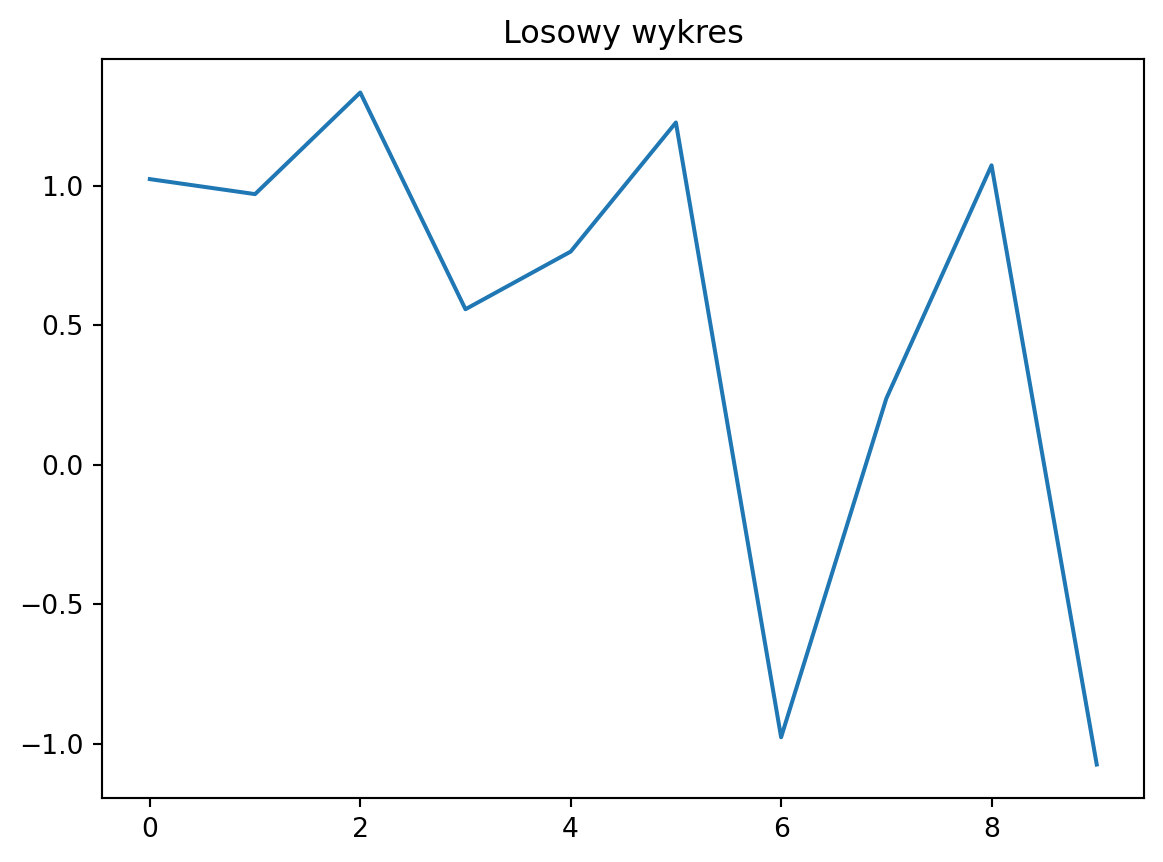
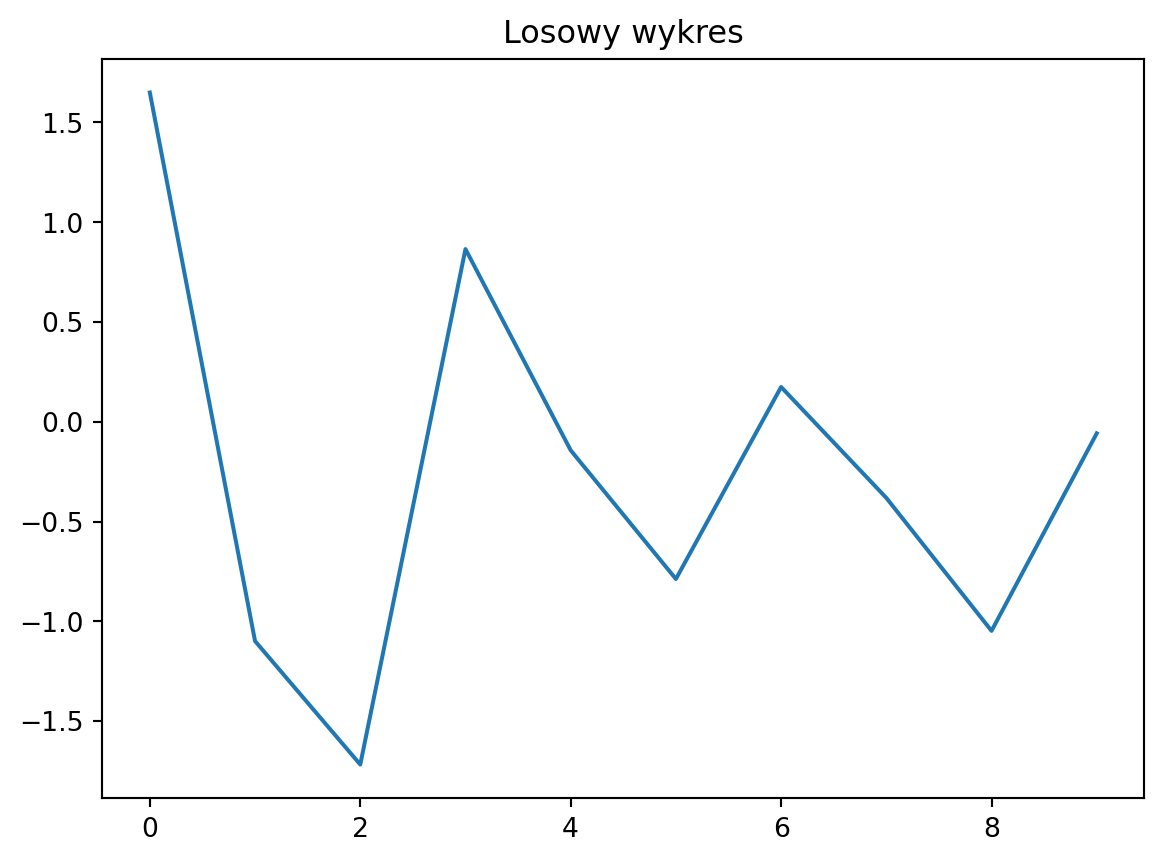
another push

diff --git a/docs/posts/python_w_analizie/python_w_analizie.html b/docs/posts/python_w_analizie/python_w_analizie.html
@@ -182,7 +182,7 @@ ul.task-list li input[type="checkbox"] {
 <section id="wprowadzenie" class="level2">
 <h2 class="anchored" data-anchor-id="wprowadzenie">Wprowadzenie</h2>
 <p>W tym poście pokażę, jak wygenerować dane w Pythonie i automatycznie przedstawić je na wykresie. Na koniec wygeneruję kilka standardowych kodów.</p>
-<div id="740ead55" class="cell" data-execution_count="1">
+<div id="172a0a98" class="cell" data-execution_count="1">
 <div class="cell-output cell-output-display" data-execution_count="1">
 <div>
 
@@ -199,52 +199,52 @@ ul.task-list li input[type="checkbox"] {
 <tr class="odd">
 <th data-quarto-table-cell-role="th">0</th>
 <td>0</td>
-<td>1.023569</td>
+<td>1.650125</td>
 </tr>
 <tr class="even">
 <th data-quarto-table-cell-role="th">1</th>
 <td>1</td>
-<td>0.969806</td>
+<td>-1.098584</td>
 </tr>
 <tr class="odd">
 <th data-quarto-table-cell-role="th">2</th>
 <td>2</td>
-<td>1.334030</td>
+<td>-1.717246</td>
 </tr>
 <tr class="even">
 <th data-quarto-table-cell-role="th">3</th>
 <td>3</td>
-<td>0.557078</td>
+<td>0.865658</td>
 </tr>
 <tr class="odd">
 <th data-quarto-table-cell-role="th">4</th>
 <td>4</td>
-<td>0.763745</td>
+<td>-0.142566</td>
 </tr>
 <tr class="even">
 <th data-quarto-table-cell-role="th">5</th>
 <td>5</td>
-<td>1.226594</td>
+<td>-0.787545</td>
 </tr>
 <tr class="odd">
 <th data-quarto-table-cell-role="th">6</th>
 <td>6</td>
-<td>-0.977648</td>
+<td>0.174582</td>
 </tr>
 <tr class="even">
 <th data-quarto-table-cell-role="th">7</th>
 <td>7</td>
-<td>0.237027</td>
+<td>-0.381204</td>
 </tr>
 <tr class="odd">
 <th data-quarto-table-cell-role="th">8</th>
 <td>8</td>
-<td>1.073087</td>
+<td>-1.047409</td>
 </tr>
 <tr class="even">
 <th data-quarto-table-cell-role="th">9</th>
 <td>9</td>
-<td>-1.075348</td>
+<td>-0.057666</td>
 </tr>
 </tbody>
 </table>
@@ -252,7 +252,7 @@ ul.task-list li input[type="checkbox"] {
 </div>
 </div>
 </div>
-<div id="5964f480" class="cell" data-execution_count="2">
+<div id="3c602512" class="cell" data-execution_count="2">
 <div class="cell-output cell-output-display">
 <div>
 <figure class="figure">
@@ -261,7 +261,7 @@ ul.task-list li input[type="checkbox"] {
 </div>
 </div>
 </div>
-<div id="d210afdb" class="cell" data-execution_count="3">
+<div id="ac777670" class="cell" data-execution_count="3">
 <div class="cell-output cell-output-display" data-execution_count="3">
 <div>
 
@@ -283,37 +283,37 @@ ul.task-list li input[type="checkbox"] {
 <tr class="even">
 <th data-quarto-table-cell-role="th">mean</th>
 <td>4.50000</td>
-<td>0.513194</td>
+<td>-0.254186</td>
 </tr>
 <tr class="odd">
 <th data-quarto-table-cell-role="th">std</th>
 <td>3.02765</td>
-<td>0.872558</td>
+<td>0.994358</td>
 </tr>
 <tr class="even">
 <th data-quarto-table-cell-role="th">min</th>
 <td>0.00000</td>
-<td>-1.075348</td>
+<td>-1.717246</td>
 </tr>
 <tr class="odd">
 <th data-quarto-table-cell-role="th">25%</th>
 <td>2.25000</td>
-<td>0.317040</td>
+<td>-0.982443</td>
 </tr>
 <tr class="even">
 <th data-quarto-table-cell-role="th">50%</th>
 <td>4.50000</td>
-<td>0.866776</td>
+<td>-0.261885</td>
 </tr>
 <tr class="odd">
 <th data-quarto-table-cell-role="th">75%</th>
 <td>6.75000</td>
-<td>1.060707</td>
+<td>0.116520</td>
 </tr>
 <tr class="even">
 <th data-quarto-table-cell-role="th">max</th>
 <td>9.00000</td>
-<td>1.334030</td>
+<td>1.650125</td>
 </tr>
 </tbody>
 </table>
